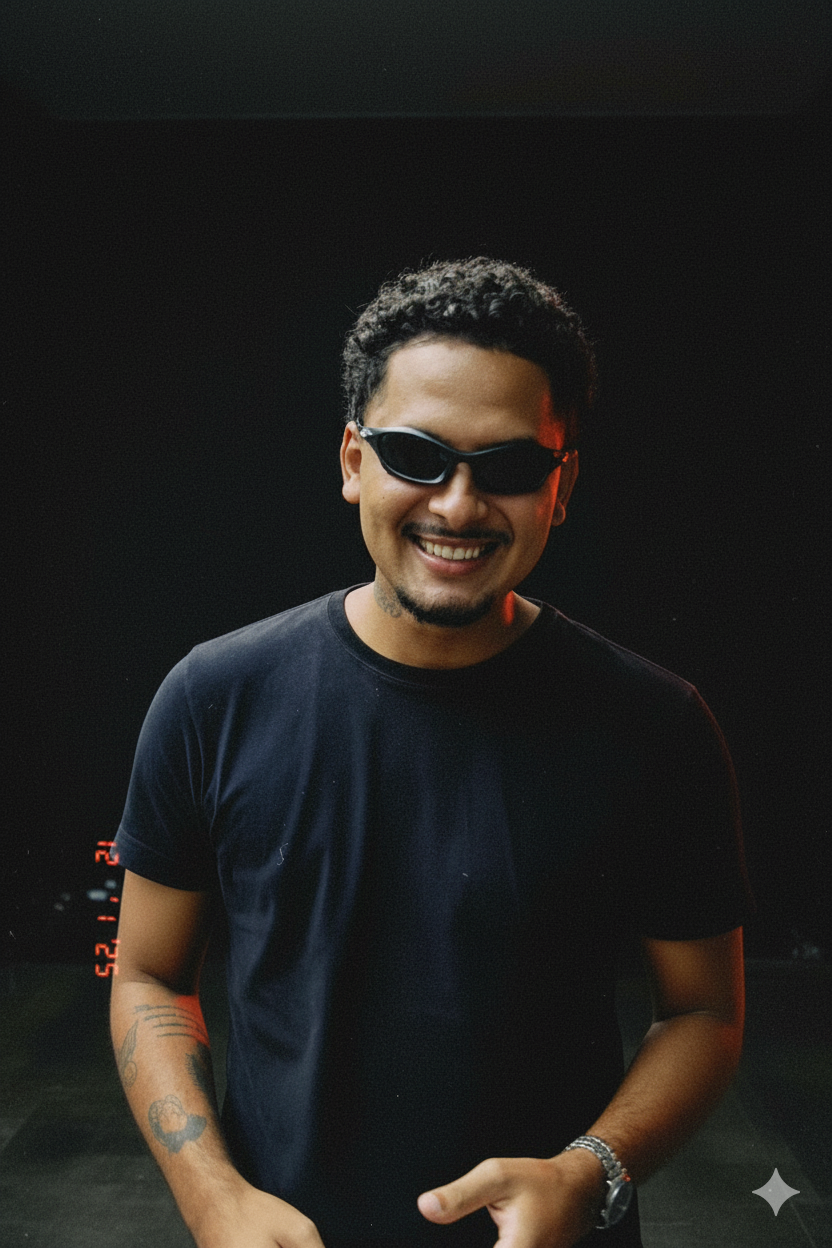
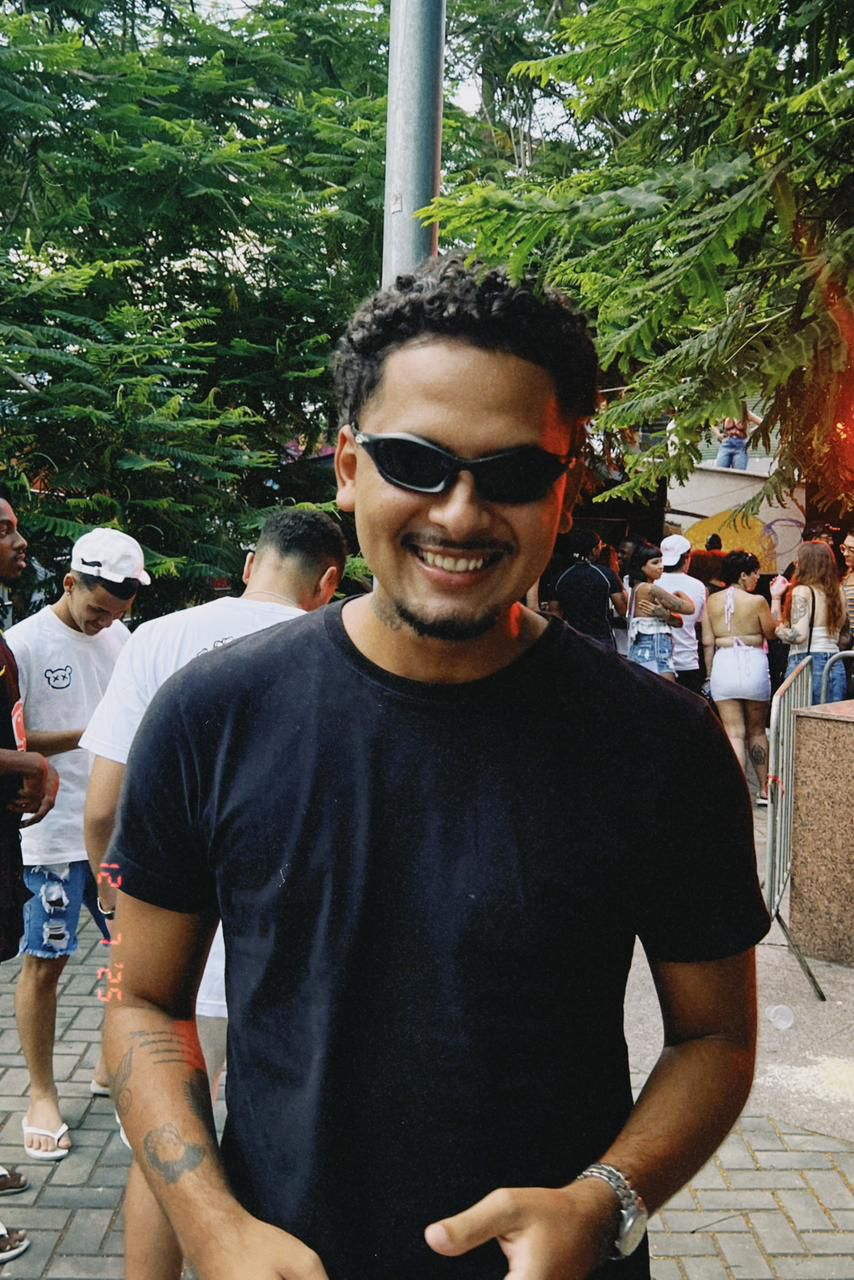
Reverted to commit 8f61132343ce3c070399a191744840cbea367150

diff --git a/src/pages/About.tsx b/src/pages/About.tsx
@@ -203,7 +203,7 @@ const AboutContent: React.FC = () => {
                     }
                   }}>
                     <div className="aspect-[3/4] w-full">
-                      <img src={member.imageUrl} alt={member.name} className={`w-full h-full object-cover transition-all duration-500 grayscale ${member.name === 'Gustavo Padeiro' ? 'scale-150 object-[40%_top] group-hover:scale-150 group-hover:blur-sm group-[.active]:scale-150 group-[.active]:blur-sm' : 'group-hover:scale-105 group-hover:blur-sm group-[.active]:scale-105 group-[.active]:blur-sm'}`} />
+                      <img src={member.imageUrl} alt={member.name} className={`w-full h-full object-cover transition-all duration-500 ${member.name === 'Gustavo Padeiro' ? 'scale-150 object-[40%_top] group-hover:scale-150 group-hover:blur-sm group-[.active]:scale-150 group-[.active]:blur-sm' : 'group-hover:scale-105 group-hover:blur-sm group-[.active]:scale-105 group-[.active]:blur-sm'}`} />
                     </div>
                     
                     {/* Overlay with info - darker on hover/active */}
@@ -246,7 +246,7 @@ const AboutContent: React.FC = () => {
                     }
                   }}>
                     <div className="aspect-[3/4] w-full">
-                      <img src={teamMembers[2].imageUrl} alt={teamMembers[2].name} className="w-full h-full object-cover transition-all duration-500 grayscale group-hover:scale-105 group-hover:blur-sm group-[.active]:scale-105 group-[.active]:blur-sm" />
+                      <img src={teamMembers[2].imageUrl} alt={teamMembers[2].name} className="w-full h-full object-cover transition-all duration-500 group-hover:scale-105 group-hover:blur-sm group-[.active]:scale-105 group-[.active]:blur-sm" />
                     </div>
                     
                     {/* Overlay with info - darker on hover/active */}
